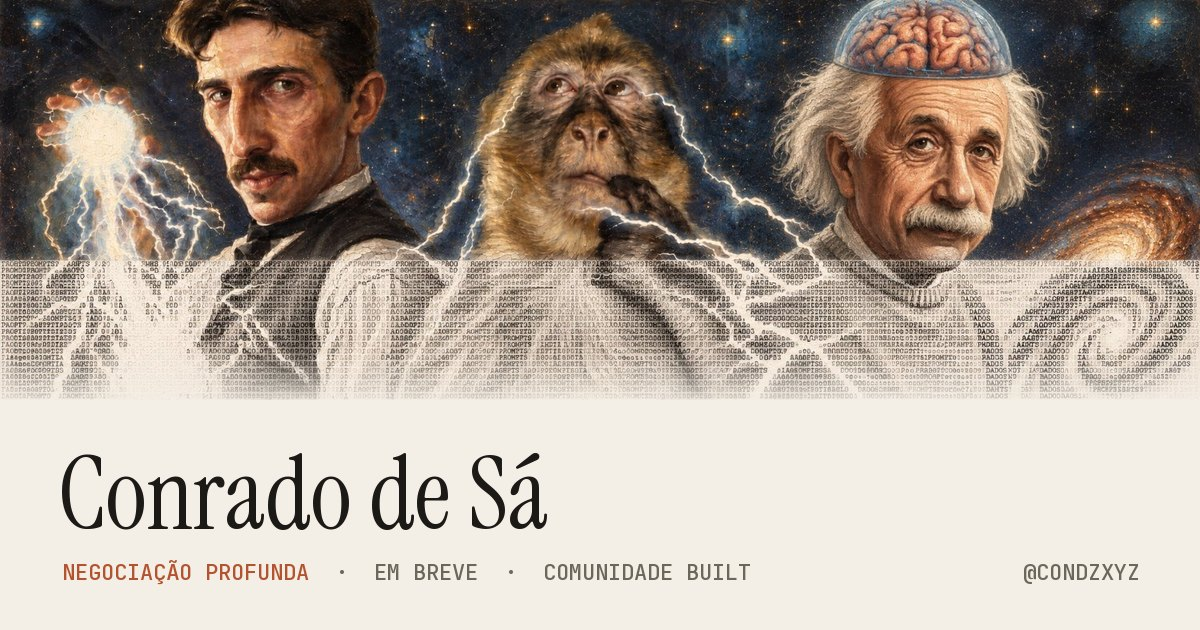
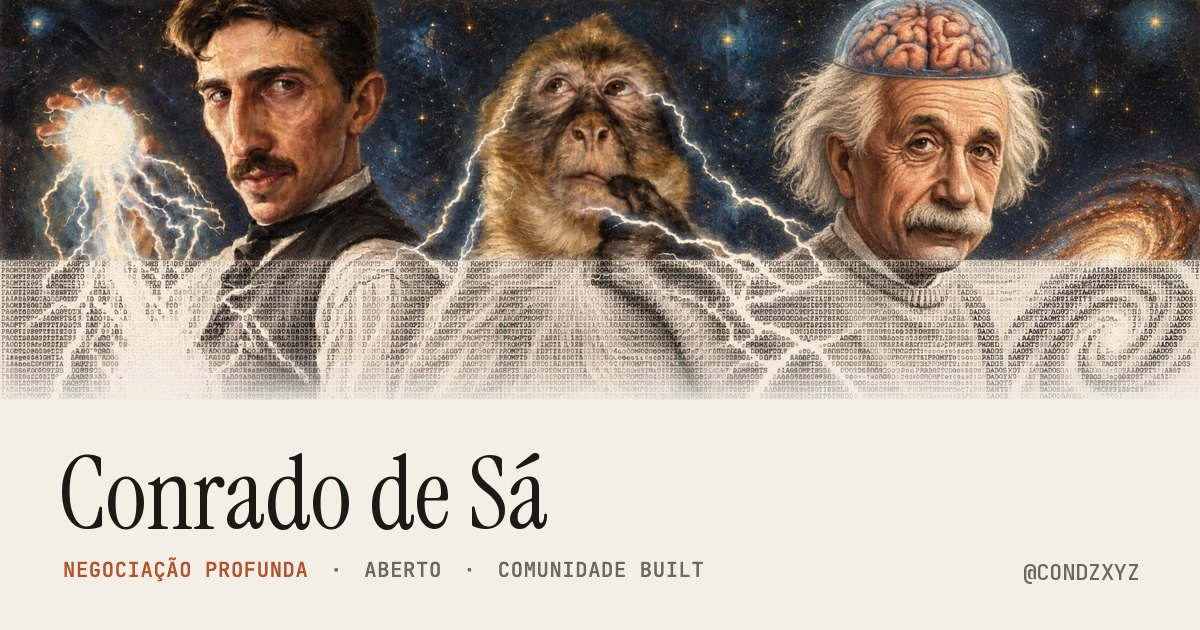
links + built: curso Negociação profunda aberto
- links: o cartão do curso troca "em breve" + lista de espera por "Aberto" e o botão "Ver o curso" (/negociacao/); og.jpg sem "em breve"
- built: no fim do teste, a tela do curso leva pra /negociacao/ (utm teste-perfil) em vez da lista de espera

Changed region(s): [[0.3083, 0.8746, 0.6167, 0.9349], [0.0617, 0.8746, 0.2775, 0.9349]]

diff --git a/built/index.html b/built/index.html
@@ -239,7 +239,7 @@ h1,h2,h3,p{margin:0}
 .op-txt small{font:400 12.5px/1.25 var(--sans);letter-spacing:0;text-transform:none;opacity:.7}
 #btn-share{align-self:stretch}
 @media (max-width:520px){.share-txt{display:none}#btn-share{width:56px;padding:0}.opcao{padding:8px 12px 8px 14px}.op-txt b{font-size:12px;letter-spacing:.05em}}
-/* tela do curso Negociação profunda (em breve) */
+/* tela do curso Negociação profunda (aberto desde 31/10: o botão leva pra página de vendas) */
 .slide-curso .capa{flex:none;height:clamp(140px,25vh,240px);border-radius:16px;border:1px solid var(--linha2);background:#0b1020 center 40%/cover;box-shadow:0 24px 50px -24px rgba(0,0,0,.8)}
 .curso-tag{display:inline-flex;align-items:center;gap:8px;margin-top:16px;color:rgba(255,255,255,.82)}
 .curso-tag i{width:7px;height:7px;border-radius:50%;background:#E8622F;animation:vivo 2.4s ease-out infinite}
@@ -465,7 +465,7 @@ h1,h2,h3,p{margin:0}
         <!-- 30/10 (pedido do Conrado): duas saídas no fim do teste. Aprender a negociar → Negociação profunda; ou a Built -->
         <div class="acoes">
           <p class="rotulo escolha-t">Seu próximo passo</p>
-          <button type="button" class="btn opcao" data-ir="2"><span class="op-txt"><b>Aprender a negociar e melhorar</b><small>Negociação profunda · R$ 27,90 · em breve</small></span><svg viewBox="0 0 16 16" aria-hidden="true"><path d="M3 8h10M9 4l4 4-4 4"/></svg></button>
+          <button type="button" class="btn opcao" data-ir="2"><span class="op-txt"><b>Aprender a negociar e melhorar</b><small>Negociação profunda · R$ 27,90 · aberto</small></span><svg viewBox="0 0 16 16" aria-hidden="true"><path d="M3 8h10M9 4l4 4-4 4"/></svg></button>
           <button type="button" class="btn escuro" id="btn-share" aria-label="Compartilhar no story"><svg viewBox="0 0 16 16" aria-hidden="true"><path d="M8 10V2M5 5l3-3 3 3M3 8v5h10V8"/></svg><span class="share-txt">Story</span></button>
           <button type="button" class="btn escuro opcao" data-ir="1"><span class="op-txt"><b>Entrar na comunidade</b><small>Built no Telegram · R$ 120/mês</small></span><svg viewBox="0 0 16 16" aria-hidden="true"><path d="M3 8h10M9 4l4 4-4 4"/></svg></button>
         </div>
@@ -487,26 +487,18 @@ h1,h2,h3,p{margin:0}
         <p class="of-links"><button type="button" class="linkzinho" data-sheet="mods">O que tem dentro</button><button type="button" class="linkzinho" data-sheet="faq">Perguntas</button><button type="button" class="linkzinho" data-sheet="sobre">Quem conduz</button></p>
       </div>
 
-      <!-- Negociação profunda (curso, em breve): entra na lista de espera com o WhatsApp e o email que a pessoa já deixou no teste.
-           Vai pro built-bot (/lead, origem "curso-negociacao") e o Conrado recebe o aviso no Telegram. Quando abrir, troque o form pelo link de compra. -->
+      <!-- Negociação profunda (curso aberto desde 31/10/2026): o botão leva pra página de vendas em /negociacao/ (chamada de 1 min
+           + checkout da Hubla), com utm_medium/utm_campaign "teste-perfil". A lista de espera saiu (pedido do Conrado). -->
       <div class="slide slide-curso" data-s="2" id="curso">
         <div class="capa" aria-hidden="true"></div>
-        <p class="rotulo curso-tag"><i></i>Curso · em breve</p>
+        <p class="rotulo curso-tag"><i></i>Curso · aberto</p>
         <h2 class="h-serif h2">Negociação profunda</h2>
-        <p class="neg-txt">Negociar com calma e inteligência emocional. Abre nos próximos dias.</p>
+        <p class="neg-txt">Negociar com calma e inteligência emocional. 10 módulos em vídeo, 11 exercícios em PDF e uma jornada de 30 dias.</p>
         <div class="espaco"></div>
         <div class="preco">
           <div class="valor">R$ 27,90<small>preço de lançamento</small></div>
-          <form class="curso-form" novalidate>
-            <div class="curso-campos" hidden>
-              <label class="campo"><span>WhatsApp</span><input name="whats" type="tel" inputmode="tel" autocomplete="tel-national" maxlength="20" placeholder="(11) 98765-4321"></label>
-              <label class="campo"><span>Email</span><input name="email" type="email" inputmode="email" autocomplete="email" maxlength="120" placeholder="seu@email.com"></label>
-            </div>
-            <button class="btn" type="submit" id="btn-curso">Me avisa quando abrir <svg viewBox="0 0 16 16" aria-hidden="true"><path d="M3 8h10M9 4l4 4-4 4"/></svg></button>
-            <p class="gatilho" id="curso-info">Te aviso no WhatsApp e no email que você deixou.</p>
-            <p class="erro" role="alert"></p>
-          </form>
-          <p class="curso-ok" hidden role="status"></p>
+          <a class="btn" id="btn-curso" href="/negociacao/">Ver o curso <svg viewBox="0 0 16 16" aria-hidden="true"><path d="M3 8h10M9 4l4 4-4 4"/></svg></a>
+          <p class="gatilho">Acesso na hora pela Hubla. Pix, cartão ou boleto.</p>
           <button type="button" class="linkzinho" data-ir="1">ou entrar na comunidade · R$ 120/mês</button>
         </div>
       </div>
@@ -1314,53 +1306,20 @@ ${raios}
     if (dx > 60 && Math.abs(dx) > Math.abs(dy) * 1.5 && slide > 0 && !document.body.classList.contains('so-oferta')) irSlide(0);
   });
 
-  // ---------------- curso Negociação profunda (em breve): lista de espera ----------------
-  // Quem acabou de fazer o teste já deixou WhatsApp e email: entra na lista com 1 clique. Quem volta outro dia
-  // (o contato não fica salvo no aparelho) preenche os dois campos.
-  const CURSO_KEY = 'carta_curso_lista';
-  const foneBR = (w) => { let d = String(w || '').replace(/\D/g, ''); if (/^55\d{10,11}$/.test(d)) d = d.slice(2); return d.length >= 10 ? `(${d.slice(0, 2)}) ${d.slice(2, d.length - 4)}-${d.slice(-4)}` : String(w || ''); };
-  const naListaCurso = () => { try { return localStorage.getItem(CURSO_KEY) === '1'; } catch (e) { return false; } };
+  // ---------------- curso Negociação profunda (aberto desde 31/10): leva pra página de vendas ----------------
   function prepararCurso() {
     const capa = $('.slide-curso .capa');
     if (capa && !capa.style.backgroundImage) capa.style.backgroundImage = 'url(img/negociacao.webp)';   // só carrega quando abre
-    const form = $('.curso-form'), ok = $('.curso-ok');
-    if (naListaCurso()) { form.hidden = true; ok.hidden = false; ok.textContent = 'Você já está na lista. Te aviso no WhatsApp e no email quando abrir.'; return; }
-    form.hidden = false; ok.hidden = true;
-    const temContato = EMAIL.test(estado.email) && zapOk(estado.whats);
-    $('.curso-campos').hidden = temContato;
-    $('#curso-info').textContent = temContato
-      ? `Te aviso no WhatsApp ${foneBR(estado.whats)} e no email ${estado.email}.`
-      : 'Deixa seu WhatsApp e email que eu te aviso quando abrir.';
-  }
-  $('.curso-form').addEventListener('submit', async (ev) => {
-    ev.preventDefault();
-    const f = ev.currentTarget, err = f.querySelector('.erro'), btn = $('#btn-curso'), textoBtn = btn.innerHTML;
-    let email = estado.email, whats = estado.whats;
-    if (!$('.curso-campos').hidden) { email = f.email.value.trim().toLowerCase(); whats = f.whats.value.trim(); }
-    if (!zapOk(whats)) { err.textContent = 'Confere o WhatsApp com DDD.'; if (!$('.curso-campos').hidden) f.whats.focus(); return; }
-    if (!EMAIL.test(email)) { err.textContent = 'Confere o email.'; if (!$('.curso-campos').hidden) f.email.focus(); return; }
-    err.textContent = ''; btn.disabled = true; btn.textContent = 'Enviando…';
-    try {
-      if (!local) {
-        const ctl = new AbortController(); const t = setTimeout(() => ctl.abort(), 12000);
-        const r = await fetch(CFG.leadUrl, {
-          method: 'POST', headers: { 'content-type': 'application/json' }, signal: ctl.signal,
-          body: JSON.stringify({ email, whatsapp: whats, source: 'curso-negociacao', utm: { utm_source: utm.utm_source || 'direto', utm_medium: 'teste-perfil', utm_campaign: 'teste-perfil' }, tg }),
-        }).finally(() => clearTimeout(t));
-        const j = await r.json().catch(() => ({}));
-        if (!r.ok || !j.ok) throw new Error(j.error || 'erro');
-      }
-      try { localStorage.setItem(CURSO_KEY, '1'); } catch (e) {}
-      track('carta_curso_lista');
-      f.hidden = true;
-      const ok = $('.curso-ok'); ok.hidden = false;
-      ok.textContent = `Pronto${estado.nome ? ', ' + estado.nome : ''}. Te aviso no WhatsApp e no email quando abrir.${local ? ' (teste local: nada foi enviado)' : ''}`;
-    } catch (e) {
-      const m = (e && e.message) || '';
-      err.textContent = /muitas/.test(m) ? 'Muitas tentativas. Tenta de novo daqui a pouco.' : /whats/i.test(m) ? 'Confere o WhatsApp com DDD (celular começa com 9).' : 'Não deu certo. Tenta de novo?';
-      btn.disabled = false; btn.innerHTML = textoBtn;
+    const a = $('#btn-curso');
+    if (a && !a.dataset.pronto) {
+      const u = new URL(a.getAttribute('href'), location.href);
+      u.searchParams.set('utm_source', utm.utm_source || (tg ? 'bot' : 'direto'));
+      u.searchParams.set('utm_medium', 'teste-perfil');
+      u.searchParams.set('utm_campaign', 'teste-perfil');
+      a.href = u.toString(); a.dataset.pronto = '1';
     }
-  });
+  }
+  $('#btn-curso').addEventListener('click', () => track('carta_curso_clique'));
 
   function revelar(animado) {
     if (!estado.res) estado.res = calcular(estado.r);

diff --git a/links/index.html b/links/index.html
@@ -7,12 +7,12 @@
 <meta name="color-scheme" content="light">
 <meta name="theme-color" content="#0b1020">
 <title>Conrado de Sá</title>
-<meta name="description" content="Negociação profunda (curso, em breve) e a comunidade Built. Te ajudo a focar no que importa.">
+<meta name="description" content="Negociação profunda (curso, aberto) e a comunidade Built. Te ajudo a focar no que importa.">
 <link rel="canonical" href="https://condzmethod.com/links/">
 <meta property="og:type" content="website">
 <meta property="og:url" content="https://condzmethod.com/links/">
 <meta property="og:title" content="Conrado de Sá">
-<meta property="og:description" content="Negociação profunda (curso, em breve) e a comunidade Built.">
+<meta property="og:description" content="Negociação profunda (curso, aberto) e a comunidade Built.">
 <meta property="og:image" content="https://condzmethod.com/links/img/og.jpg">
 <meta property="og:image:width" content="1200">
 <meta property="og:image:height" content="630">
@@ -148,6 +148,13 @@ html:not(.js) .hero::after{content:"";position:absolute;inset:auto 0 0;height:30
 @keyframes brilhoBotao{0%,58%{transform:translateX(-120%)}100%{transform:translateX(120%)}}
 .c-form button:active{transform:scale(.985)}
 .c-form button:disabled{opacity:.6}
+/* botão do curso aberto (31/10): mesmo visual do antigo "Me avisa", agora com link pra página de vendas */
+.c-cta{position:relative;overflow:hidden;display:flex;align-items:center;justify-content:space-between;gap:12px;width:100%;height:50px;margin-top:12px;padding:0 8px 0 18px;border-radius:13px;background:var(--ember);color:#fff;font:500 15.5px/1 var(--sans);transition:background .2s,transform .2s var(--ease);box-shadow:0 10px 26px -12px rgba(208,106,64,.8)}
+.c-cta i{display:grid;place-items:center;width:34px;height:34px;border-radius:9px;background:rgba(255,255,255,.14)}
+.c-cta svg{width:16px;height:16px;transition:transform .25s var(--ease)}
+.c-cta::after{content:"";position:absolute;inset:0;background:linear-gradient(100deg,transparent 30%,rgba(255,255,255,.38) 50%,transparent 70%);transform:translateX(-120%);animation:brilhoBotao 3.6s ease-in-out infinite 1.2s}
+.c-cta:active{transform:scale(.985)}
+.curso .nota{margin-top:10px}
 .nota{margin:10px 0 0;font-size:12.5px;line-height:1.4;color:rgba(246,241,231,.6)}
 .nota a{color:inherit;text-decoration:underline;text-underline-offset:2px}
 .nota.erro{color:#f3a888}
@@ -190,7 +197,8 @@ html:not(.js) .hero::after{content:"";position:absolute;inset:auto 0 0;height:30
 @media (hover:hover) and (pointer:fine){
   .built:hover{transform:translateY(-3px);border-color:#cdbfa9;box-shadow:0 22px 44px -28px rgba(28,26,22,.5)}
   .built:hover .b-cta svg{transform:translateX(3px)}
-  .c-form button:hover{background:#9e4626}
+  .c-form button:hover,.c-cta:hover{background:#9e4626}
+  .c-cta:hover svg{transform:translateX(3px)}
   .icones a:hover{background:var(--ink);color:var(--ivory);transform:translateY(-2px)}
 }
 
@@ -230,7 +238,7 @@ html:not(.js) .hero::after{content:"";position:absolute;inset:auto 0 0;height:30
   .preco{margin-top:12px;padding-top:12px}
   .preco b{font-size:34px}
   .c-form{margin-top:12px}
-  .c-form input:not(.isca),.c-form button{height:52px}
+  .c-form input:not(.isca),.c-form button,.c-cta{height:52px}
   .campos{grid-template-columns:1fr 1fr}
   .built .c-in{display:grid;grid-template-columns:minmax(0,1fr) auto;column-gap:20px;align-items:end}
   .built .c-top{grid-column:1/-1}
@@ -258,7 +266,7 @@ html:not(.js) .hero::after{content:"";position:absolute;inset:auto 0 0;height:30
   .preco{margin-top:10px;padding-top:10px}
   .preco b{font-size:28px}
   .c-form{margin-top:10px}
-  .c-form input:not(.isca),.c-form button{height:46px}
+  .c-form input:not(.isca),.c-form button,.c-cta{height:46px}
   .c-form button{margin-top:6px}
   .nota{margin-top:8px}
   .b-titulo{font-size:32px;margin-top:10px}
@@ -300,29 +308,20 @@ html:not(.js) .hero::after{content:"";position:absolute;inset:auto 0 0;height:30
     </section>
 
     <nav class="links" aria-label="Links">
-      <!-- FOCO: curso de negociação, ainda sem link de compra. Lista de espera: o email vai pro built-bot (/lead),
-           origem "curso-negociacao". Quando abrir, troque o <form> por um botão com o link de compra. -->
-      <div class="card curso espera" data-id="curso-negociacao">
+      <!-- FOCO: curso de negociação, aberto desde 31/10/2026. O botão leva pra página de vendas (condzmethod.com/negociacao/),
+           que tem a chamada de 1 min e o checkout da Hubla. O utm sai com utm_content=curso-negociacao (script "1. links").
+           A lista de espera saiu daqui; o código dela (1b) ficou parado, só roda num cartão com a classe "espera". -->
+      <div class="card curso" data-id="curso-negociacao">
         <span class="c-borda" aria-hidden="true"></span>
         <div class="c-fx" aria-hidden="true"><div class="c-aurora"></div><div class="c-codigo"></div></div>
         <span class="c-brilho" aria-hidden="true"></span>
         <div class="c-in">
-          <div class="c-top"><span>Curso</span><span class="vivo">Em breve</span></div>
+          <div class="c-top"><span>Curso</span><span class="vivo">Aberto</span></div>
           <h2 class="c-titulo">Negociação profunda</h2>
-          <p class="c-texto">Negociar com calma e inteligência emocional. Abre nos próximos dias.</p>
+          <p class="c-texto">Negociar com calma e inteligência emocional. 10 módulos em vídeo e 11 exercícios em PDF.</p>
           <p class="preco"><b>R$ 27,90</b><span>preço de lançamento</span></p>
-          <form class="c-form" novalidate>
-            <div class="campos">
-              <label class="vh" for="espera-wa">Seu WhatsApp com DDD</label>
-              <input id="espera-wa" name="whatsapp" type="tel" inputmode="tel" autocomplete="tel-national" placeholder="WhatsApp com DDD" required>
-              <label class="vh" for="espera-email">Seu email</label>
-              <input id="espera-email" name="email" type="email" inputmode="email" autocomplete="email" autocapitalize="off" spellcheck="false" placeholder="seu@email.com" required>
-            </div>
-            <button type="submit">Me avisa quando abrir</button>
-            <input class="isca" name="website" type="text" tabindex="-1" autocomplete="off" aria-hidden="true">
-            <p class="nota" aria-live="polite">Te aviso no WhatsApp e no email. <a href="https://condzmethod.com/built/privacidade.html">Privacidade</a></p>
-          </form>
-          <p class="ok" hidden role="status"><span>Pronto. Te aviso quando abrir.</span></p>
+          <a class="c-cta" href="https://condzmethod.com/negociacao/" data-id="curso-negociacao">Ver o curso <i><svg viewBox="0 0 24 24" fill="none" stroke="currentColor" stroke-width="2" stroke-linecap="round" stroke-linejoin="round"><path d="M5 12h14M13 6l6 6-6 6"/></svg></i></a>
+          <p class="nota">Acesso na hora pela Hubla. Pix, cartão ou boleto.</p>
         </div>
       </div>
 
@@ -457,7 +456,7 @@ html:not(.js) .hero::after{content:"";position:absolute;inset:auto 0 0;height:30
   });
 
   /* ========== 1c. código passando (cartão do curso) ========== */
-  const TOKENS_CURSO = ['NEGOCIAÇÃO', 'CALMA', 'PRESSÃO', 'LEITURA', 'CONTRATO', 'RESPIRA', 'FOCO', 'deal.close()', 'if(pressão) respira()', 'return calma', 'ouvir()', '<b>R$ 27,90</b>', '<b>EM BREVE</b>', '0101', '{ }'];
+  const TOKENS_CURSO = ['NEGOCIAÇÃO', 'CALMA', 'PRESSÃO', 'LEITURA', 'CONTRATO', 'RESPIRA', 'FOCO', 'deal.close()', 'if(pressão) respira()', 'return calma', 'ouvir()', '<b>R$ 27,90</b>', '<b>ABERTO</b>', '0101', '{ }'];
   const linhas = (el, tokens, n, tam) => {
     if (!el) return;
     let html = '';
